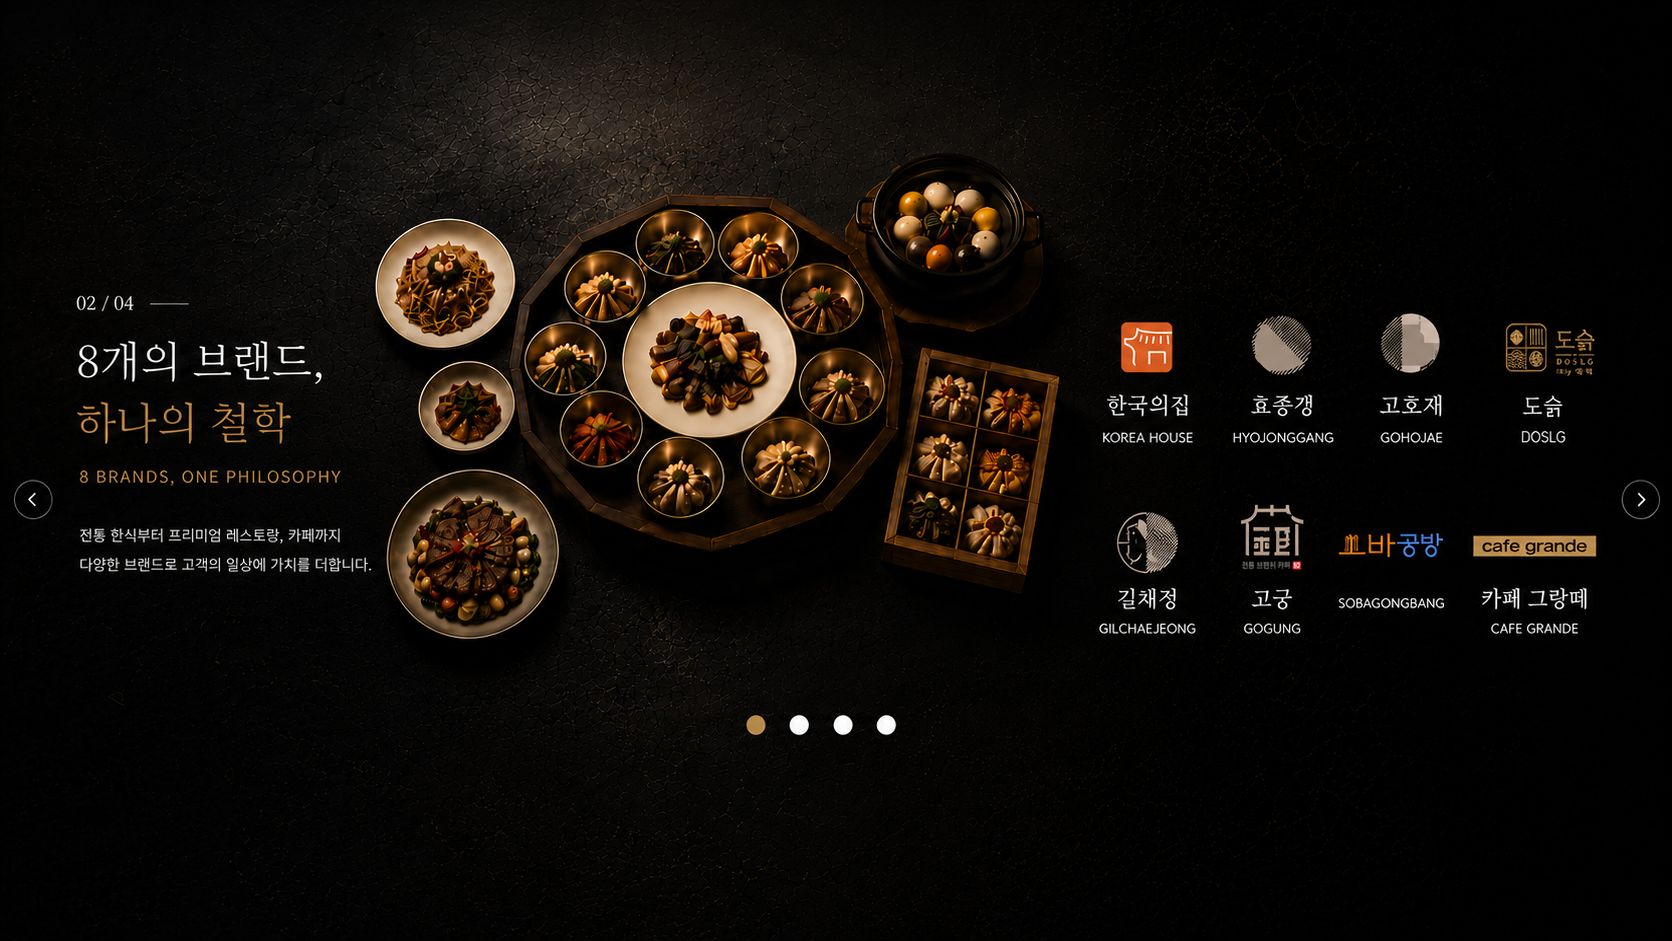
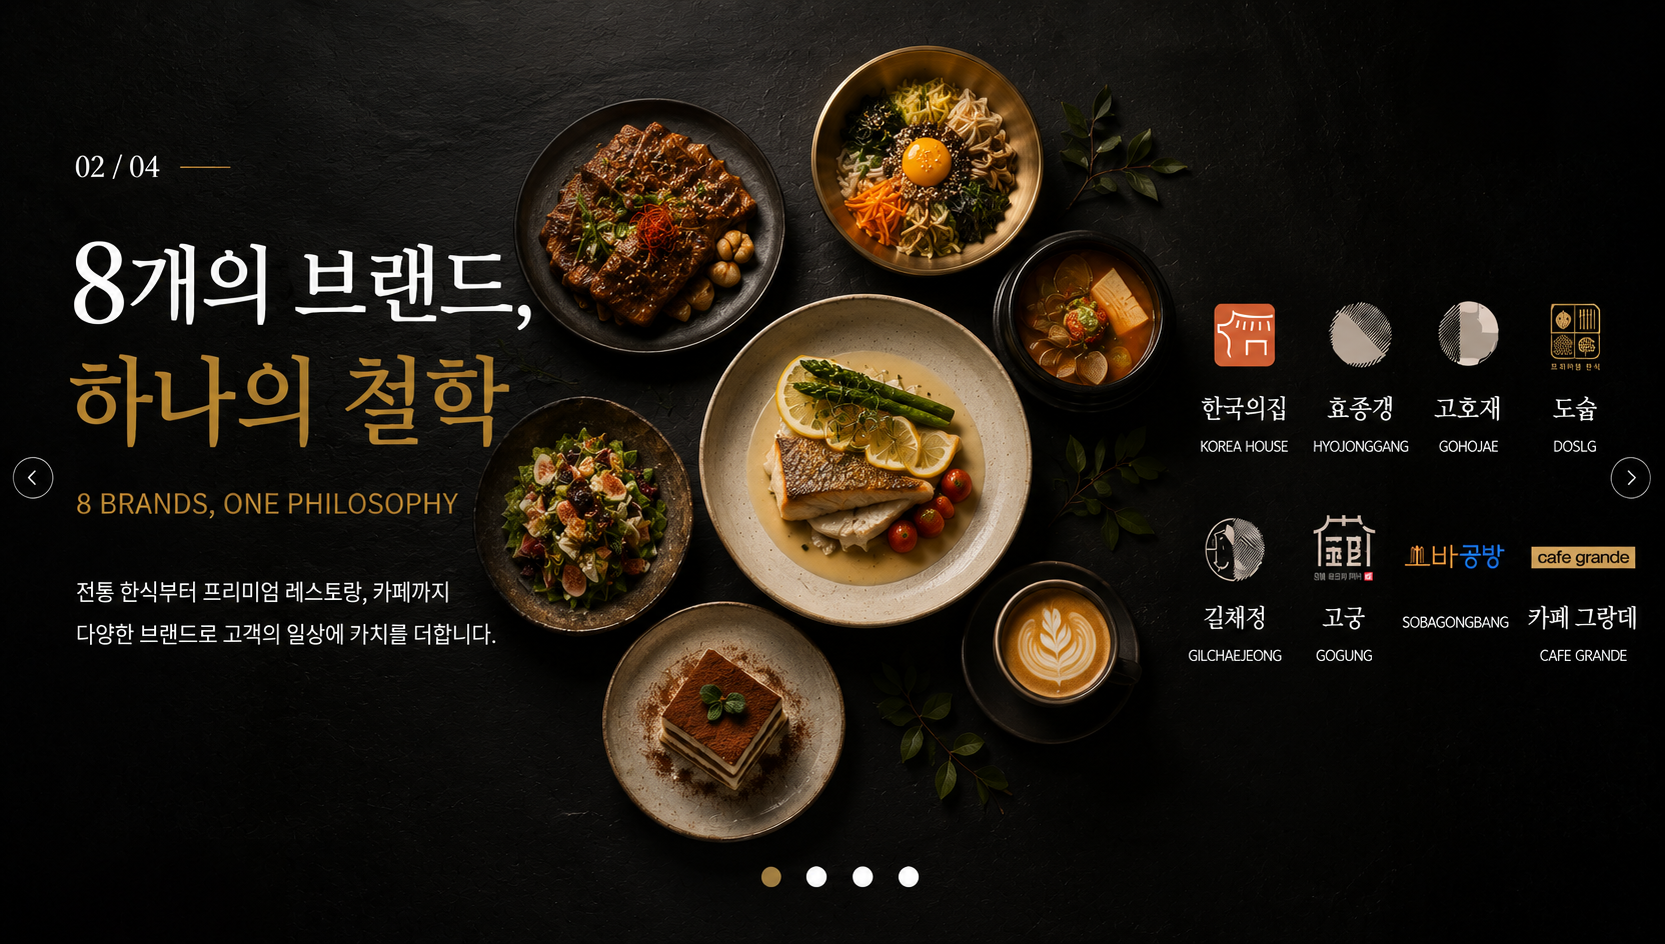
메인 슬라이드 이미지 변경 및 텍스트 크기 수정

diff --git a/strength.html b/strength.html
@@ -276,7 +276,7 @@
 .map-dot.pyeongchon{left:36%;top:34%}
 .map-dot.buyeo{
   left:36%;
-  top:52%;
+  top:50%;
 }
 
 .map-dot.daejeon{